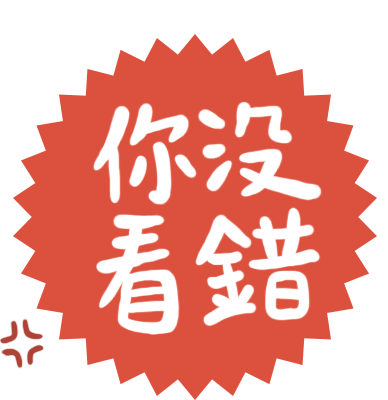
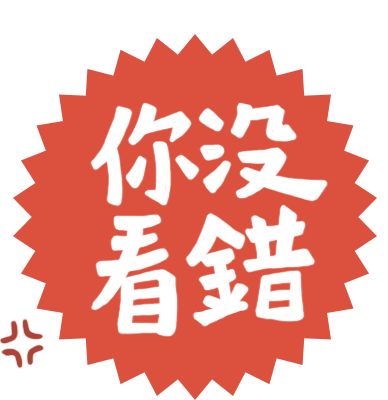
design & content update

Changed region(s): [[0.2165, 0.24, 0.866, 0.84]]

diff --git a/mining/index.html b/mining/index.html
@@ -333,7 +333,7 @@
 <section>    
 <h2 class="medal">第一道金牌：只要礦業用地沒有擴大，續約也不用環評</h2>
     <p>很難想像，在幾乎所有重大開發行為都需經過環境影響評估、讓支持與反對方耗盡心力論辯的現今，炸山採礦的開發行為卻完全屬於經濟部礦務局的內部審查，審查內容、程序、進度通通不公開。<strong>日前立委林淑芬曾以質詢為由向礦務局索取資料，礦務局則回覆是「業者商業機密」無法提供</strong>。那麼，環評制度得以公開審查，難道就沒有商業機密的問題？</p>
-    <p>這也是《礦業法》遲至近年才有較完整修法版本的原因。過去有修法訴求，大多是伴隨「反亞泥還我土地運動」，原住民歷經法律訴訟辛苦獲得所有權，卻因《礦業法》47條允許業者在與所有權人協調不成的情況下仍能使用土地，而無法回到自己的土地。</p>
+    <p>這也是《礦業法》遲至近年才有較完整修法版本的原因。過去有修法訴求，大多是伴隨「<a href="">反亞泥還我土地運動</a>」，原住民歷經法律訴訟辛苦獲得所有權，卻因《礦業法》47條允許業者在與所有權人協調不成的情況下仍能使用土地，而無法回到自己的土地。</p>
     <p>但隨著西部水泥禁採，部分礦權被廢止；水泥產業東移，有新增的礦權，才有比較多案子進到環評，資訊得以公開。地球公民基金會專員潘正正提到，他們也是在個案中發現《礦業法》的諸多漏洞，也在抗爭過程中發現需要從源頭修正才是最有效的改革，才從修正第 47 條走到整部《礦業法》修正。</p>
     <p>環評既然成為檢視黑箱的契機，<strong>但 1994 年《環境影響評估法》通過，至今卻有 91% 的礦場不曾環評。怎麼會這樣？礦務局與業者主張，礦權展延是「續約」，屬於「舊權利的延伸」</strong>，1999 年環保署針對太魯閣國家公園南昌礦業的函釋就指出，「實際礦業用地無擴大或變動情形，無須實施環評」。</p>
     <p>而所謂的「礦業用地無擴大或變動」，也只是面積上的認定，讓許多業者得以固守自己已核定的範圍，就算不斷向下挖深，面積只要沒有擴大，就不需要環評。</p>
@@ -636,6 +636,39 @@
 </div>
 
 </div><!-- div.outerWpr -->
+
+<div id="lightbox" class="lightbox">
+    <div class="lightbox__overlay"></div>
+    <div class="lightbox__content">
+        <div class="lightbox__scrollwpr">
+            <section>
+                <h1>一、主管機關在什麼情形下可以（不須賠償）而終止業者的礦業權？</h1>
+                <ol>
+                    <li>申請人與礦業權者不相符</li>
+                    <li>無探礦或採礦實績</li>
+                    <li>礦業之經營有妨害公益無法補救</li>
+                    <li>欠繳礦業權費或礦產權利金二年以上</li>
+                    <li>礦業工程危害礦產資源或礦場作業人員安全，不遵令改善或無法改善</li>
+                </ol>
+                <p>實際上，也有許多礦場的生產量極低，卻仍出現在申請礦權展延的名單上。因為對於「採礦實績」的認定，最簡單只需要 3 個人的薪資證明（還不一定要是工人）。</p>
+            </section>
+            <section>
+                <h1>二、礦權展限究竟是新權利還是舊權利？</h1>
+                <p>無論是環保署還是立委在修訂《環評法》跟《礦業法》的意見中，都採納了最高行政法院判字936號的見解，認為礦權展限是新權利的賦予，且因最長就是20年，環境多有變遷，所以展限應比照新申請或擴大變更案辦理，依法進行環評。</p>
+                <p>但記者採訪台灣水泥、亞洲水泥、及台灣區水泥工業同業公會，皆與礦務局持相同的見解，也就是礦權應為舊權利的延伸。</p>
+                <p>台泥發言人黃健強就表示，「環保署今天要依照他的職權規定什麼行為要環評，我們就尊重，但不能曲解法令，礦權展延就是舊權利。」</p>
+                <p>他提到，2003年最高法院的判決，依據的是尚未修正的《礦業法》。當時的法規（35之3條：「採礦權展限之申請，礦區所在地直轄市者，由直轄市主管機關查核左列事項並擬具准駁意見轉報經濟部；在縣（市）者，由經濟部查核後准駁之⋯⋯」）讓經濟部對業者採礦權的展限申請是有裁量空間的。</p>
+                <p>但2003年同樣修正了《礦業法》，第31條規定，除了特定事由外，主管機關對於業者的申請應該核准，不得駁回，代表主管機關對於展限申請完全沒有裁量空間。</p>
+                <p>所以這份最高行政法院的見解，依據的是尚未修法的《礦業法》，既然2003年已修法，這份見解也不合時宜了。</p>
+                <p>但環保署副署長詹順貴表示，修法後，主管機關對業者申請礦權展限並非完全沒有裁量空間，只是裁量空間被限縮了，若有業者有違法情形，主管機關仍可以駁回。業者的理由是不成立的。</p>
+                <p>而亞泥發言人周維崑也認為，就算是舊權利，也受《環評法》管轄。《環評法》規定新訂的開發行為需要環評，對既存的開發行為也有相應規範，如28條，「主管機關認有必要時，得命開發單位辦理環境影響之調查、分析，並提出因應對策」。業者就是依法盡到應盡的義務。</p>
+                <p>但蠻野心足生態協會秘書長謝孟羽表示，《環評法》28條中的環評發動者為目的事業主管機關，也就是礦務局。礦務局不發動環境調查，也沒有任何人能介入，根本沒有實質的監督效力。</p>
+            </section>
+        </div>
+        <a class="lightbox__close">關閉</a>
+    </div>
+</div>
+
 </body>
 </html>
 

diff --git a/mining/css/layout.css b/mining/css/layout.css
@@ -282,7 +282,7 @@ background-color:#271f19; border-bottom:20px solid #dbd5d1;
 .part2__badgeshock {width:232px; height:250px; position:absolute; left:50%; top:-30px;
 margin-left:-116px;
 background-image:url("../images/badge-shock.png"); background-repeat:no-repeat;
-background-size:232px auto;
+background-size:100% auto;
 }
 
 .part2__sectitle {border-top:none;}
@@ -327,10 +327,6 @@ background-color:rgba(81,62,53,0.1);
 background-image:url("../images/bg-paper.jpg");
 border-bottom:8px solid #2c241f;
 }
-.article-container.part3:after {content:""; display:block; width:680px; height:113px; position:absolute; bottom:0; left:50%; margin-left:-340px;
-background-image:url("../images/miningcart.png"); background-repeat:no-repeat;
-background-size:680px auto;
-}
 
 article {max-width:850px; margin:0 auto; padding:100px 25px 5px 25px;}
 .part2 article,.part2-2 article {color:#412d25;}
@@ -374,6 +370,12 @@ background-image:url("../images/icon-infobox.png"); background-repeat:no-repeat;
 background-size:24px auto; background-position:0 0;
 }
 
+p a {display:inline-block; padding:0 5px;
+font-weight:bold; color:#412d25;
+border-bottom:2px dotted #412d25; cursor:pointer;
+transition:250ms background-color;
+}
+p a:hover {background-color:rgba(255,255,255,0.9);}
 
 /* --- css table ---*/
 .tablewpr {width:100%; margin:0 auto 5px auto; 
@@ -453,10 +455,53 @@ border-left:3px dotted #928f8d;
 }
 
 /* --- footer ---*/
-footer {min-height:100px;
+footer {min-height:100px; position:relative;
 background-color:#221c16;
 }
+footer:before {content:""; display:block; width:680px; height:120px; position:absolute; top:-113px; left:50%; margin-left:-340px;
+background-image:url("../images/miningcart.png"); background-repeat:no-repeat;
+background-size:680px auto; z-index:200; 
+}
 
+/* --- lightbox ---*/
+html.stop-scroll {overflow-y:hidden;}
+
+.lightbox {width:100vw; height:100vh; position:fixed; left:0; top:0; z-index:1000;
+pointer-events:none;
+}
+.lightbox.show {pointer-events:auto;}
+
+.lightbox__overlay {width:100%; height:100%; position:absolute; left:0; top:0;
+background-color:rgba(231,226,222,0.92); opacity:0;
+/*transition:250ms opacity;*/
+}
+.show .lightbox__overlay {opacity:1;}
+
+.lightbox__content {width:70%; max-width:700px; height:90%; margin:0 auto; position:relative; top:0; box-sizing:border-box; padding:40px 0 60px 0;
+color:#5d4c45; font-size:15px; line-height:23px;
+background-color:#f3f1ef; border-radius:10px; box-shadow:0 0 10px rgba(0,0,0,0.1); 
+opacity:0;
+transition:400ms; transition-property:opacity,top;
+}
+.show .lightbox__content {opacity:1; top:5%;}
+
+.lightbox__scrollwpr {height:100%; padding:0 45px; overflow-y:auto;
+text-align:left;
+}
+
+.lightbox section {margin-bottom:30px; padding:4px;}
+.lightbox h1 {font-size:24px; margin-bottom:20px; padding:14px 6px; line-height:120%;
+border-top:3px dotted #5d4c45; border-bottom:3px dotted #5d4c45;
+}
+.lightbox ol {margin-bottom:26px; margin-left:18px;}
+.lightbox ol li {list-style:decimal; margin-bottom:4px;}
+
+.lightbox__close {width:150px; height:40px; position:absolute; bottom:12px; left:50%; margin-left:-75px; cursor:pointer;
+color:#fff; text-align:center; font-size:18px; line-height:40px; letter-spacing:2px;
+background-color:#66443f; border-radius:40px;
+transition:400ms background-color;
+}
+.lightbox__close:hover {background-color:#5a3a36;}
 
 /* --- size detection ---*/
 .detecion {position:fixed; right:5px; bottom:0; pointer-events:none; z-index:10000; opacity:0.4;

diff --git a/mining/js/layout.js b/mining/js/layout.js
@@ -1,5 +1,37 @@
 $(document).ready(function(){
 
+var $html = $("html");
+var $lbTrigger = $(".infobox");
+var $lightbox = $("#lightbox");
+var $lbOverlay = $(".lightbox__overlay");
+var $lbCloseBtn = $(".lightbox__close");
+
+//lightbox
+$lbTrigger.click(function(){
+    openLightbox();    
+});
+
+$lbOverlay.click(function(){
+    closeLightbox();    
+});
+
+$lbCloseBtn.click(function(){
+    closeLightbox();    
+});
+
+function openLightbox(){
+    $html.addClass("stop-scroll");
+    $lightbox.addClass("show");
+}
+
+function closeLightbox(){
+    $html.removeClass("stop-scroll");
+    $lightbox.removeClass("show");
+}
+
+
+
+
 var $window = $(window);
 
 function scrollDetect(){
